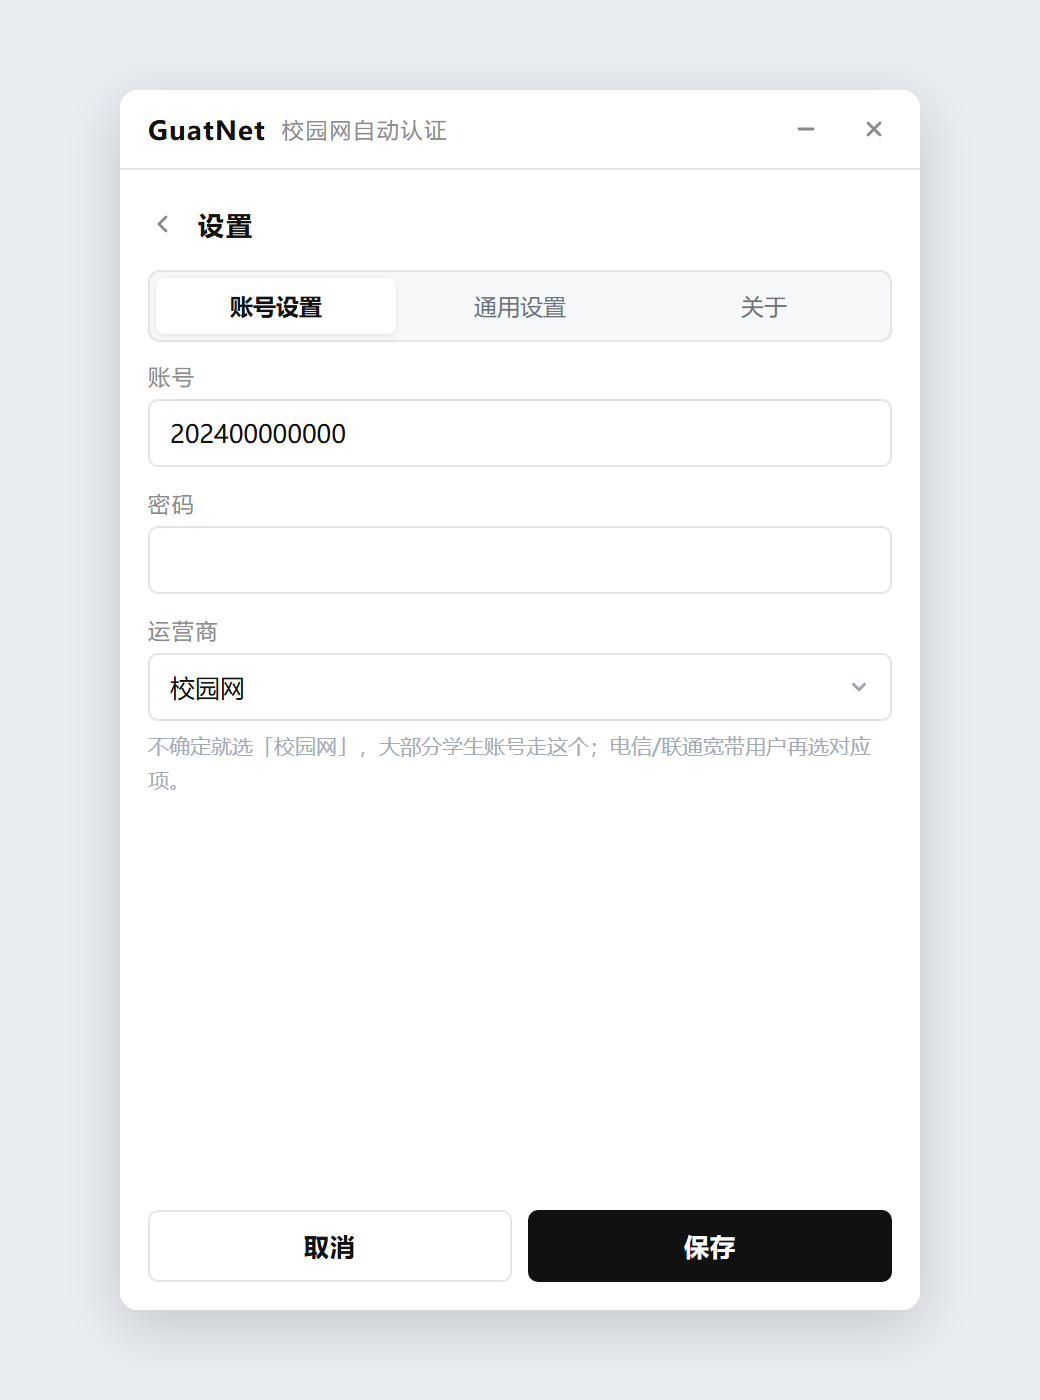
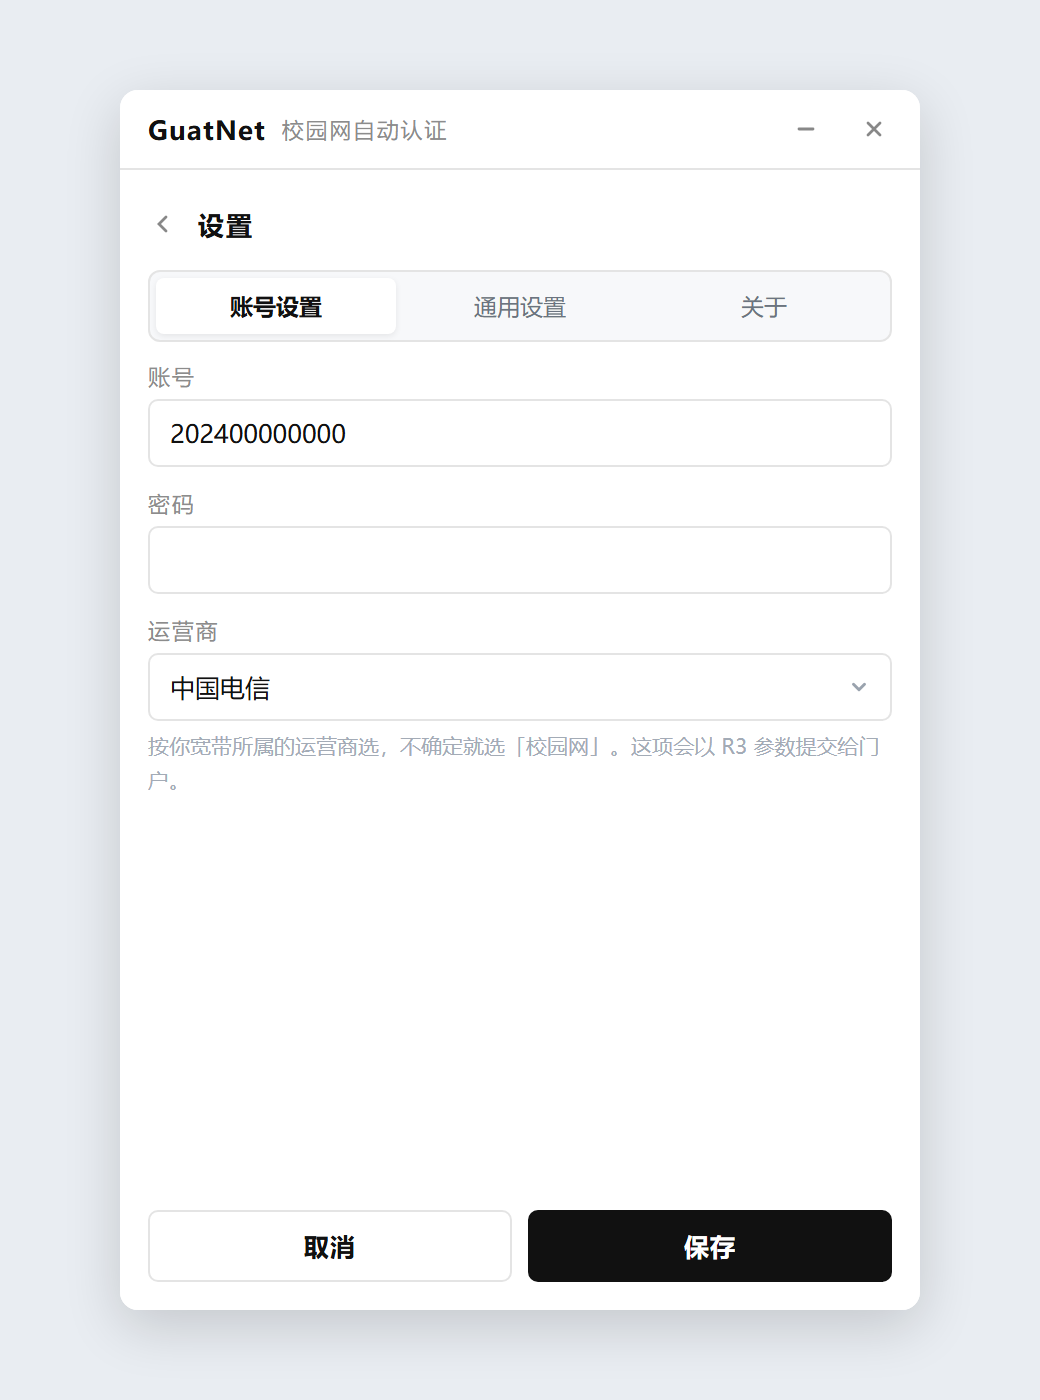
fix: 认证改用经典 drcom 接口，运营商以 R3 提交；重连真正生效
- 抓包确认学校登录页走 /drcom/login，运营商是 R3 参数（0 校园网 1 电信 2 联通 3 移动 4 广电）
- 参数顺序固定为 DDDDD、upass 在 0MKKey 之前，否则服务端返回 203
- 恢复运营商下拉，标签与门户一致（中国电信等）
- 点「立即重连」时即使已在线也重新认证，不再直接跳过

Changed region(s): [[0.1231, 0.4607, 0.8308, 0.5529]]

diff --git a/ui/index.html b/ui/index.html
@@ -120,6 +120,10 @@
   .field input:focus{border-color:var(--blue);box-shadow:0 0 0 3px rgba(47,111,237,.12)}
 
   /* 自定义下拉 */
+  .readonly{
+    height:34px;display:flex;align-items:center;padding:0 10px;border-radius:5px;
+    border:1px solid var(--line);background:var(--soft);color:#6B7480;font-size:12.5px;
+  }
   .sel{position:relative}
   .selbtn{
     width:100%;height:34px;display:flex;align-items:center;gap:8px;
@@ -302,7 +306,7 @@
           </button>
           <div class="selmenu" id="selIspMenu" hidden></div>
         </div>
-        <div class="hint">不确定就选「校园网」，大部分学生账号走这个；电信/联通宽带用户再选对应项。</div>
+        <div class="hint">按你宽带所属的运营商选，不确定就选「校园网」。这项会以 R3 参数提交给门户。</div>
       </div>
     </div>
 
@@ -331,7 +335,7 @@
         </span>
         <div>
           <div class="nm">GuatNet</div>
-          <div class="ver">版本 1.0.2 · 校园网自动认证</div>
+          <div class="ver">版本 1.0.3 · 校园网自动认证</div>
         </div>
       </div>
 
@@ -439,7 +443,7 @@ $('btnSet').onclick = () => openSheet();
 $('btnBack').onclick = $('btnCancel').onclick = () => closeSheet();
 
 /* ---------- 运营商下拉 ---------- */
-const ISP_NAMES = ['校园网', '校园电信', '校园联通', '校园其他'];
+const ISP_NAMES = ['校园网', '中国电信', '中国联通', '中国移动', '中国广电'];
 let currentIsp = 0;
 
 (function buildIsp(){
@@ -459,26 +463,12 @@ function setIsp(v){
   $('selIspText').textContent = ISP_NAMES[currentIsp] || ISP_NAMES[0];
   [...$('selIspMenu').children].forEach(b => b.classList.toggle('on', Number(b.dataset.v) === currentIsp));
 }
+function openIsp(){ $('selIsp').classList.add('open'); $('selIspMenu').hidden = false; }
+function closeIsp(){ $('selIsp').classList.remove('open'); $('selIspMenu').hidden = true; }
 
-function openIsp(){
-  $('selIsp').classList.add('open');
-  $('selIspMenu').hidden = false;
-}
-function closeIsp(){
-  $('selIsp').classList.remove('open');
-  $('selIspMenu').hidden = true;
-}
-
-$('selIspBtn').onclick = e => {
-  e.stopPropagation();
-  $('selIspMenu').hidden ? openIsp() : closeIsp();
-};
-document.addEventListener('click', e => {
-  if (!e.target.closest('#selIsp')) closeIsp();
-});
-document.addEventListener('keydown', e => {
-  if (e.key === 'Escape') closeIsp();
-});
+$('selIspBtn').onclick = e => { e.stopPropagation(); $('selIspMenu').hidden ? openIsp() : closeIsp(); };
+document.addEventListener('click', e => { if (!e.target.closest('#selIsp')) closeIsp(); });
+document.addEventListener('keydown', e => { if (e.key === 'Escape') closeIsp(); });
 
 /* ---------- 设置分类 ---------- */
 function switchTab(name){
@@ -517,11 +507,11 @@ function openSheet(){
   const s = JSON.parse(_lastState || '{}');
   $('fAccount').value = s.account || '';
   $('fGateway').value = s.gateway || '';
-  setIsp(s.isp ?? 0);
   setAutoStart(s.autoStart);
   switchTab('account');
   $('fPassword').value = '';
   $('fPassword').placeholder = s.hasPassword ? '已保存，留空则不修改' : '请输入密码';
+  setIsp(s.isp ?? 0);
   $('msg').textContent = '';
   $('sheet').classList.add('open');
   sheetOpen = true;
@@ -535,9 +525,9 @@ $('btnSave').onclick = async () => {
   const payload = {
     account: $('fAccount').value.trim(),
     password: $('fPassword').value,
-    isp: currentIsp,
     autoStart: autoStartOn,
-    gateway: $('fGateway').value.trim()
+    gateway: $('fGateway').value.trim(),
+    isp: currentIsp
   };
   try {
     const err = await app.save(JSON.stringify(payload));

diff --git a/auth.go b/auth.go
@@ -3,7 +3,6 @@ package main
 import (
 	"fmt"
 	"io"
-	"net"
 	"net/http"
 	"regexp"
 	"strings"
@@ -28,67 +27,36 @@ func newDrcomClient(cfg Config) *DrcomClient {
 	}
 }
 
-// ispSuffix 对应门户里运营商下拉的账号后缀（页面内 carrier 配置）。
-func ispSuffix(isp int) string {
-	switch isp {
-	case 1:
-		return "@dx" // 校园电信
-	case 2:
-		return "@lt" // 校园联通
-	default:
-		return "" // 校园用户 / 其他
-	}
-}
-
-// clientIP 取门户眼中的本机 IP。
+// buildURL 拼登录地址（经典 Dr.COM 接口，和学校登录页用的完全一致）。
 //
-// 只认门户首页内联的 v4ip='x.x.x.x'——那才是校园网给这个会话分配的地址。
-// 绝不退回到本机网卡地址：外网卡（比如家里的路由器）会被门户当成另一个会话，
-// 结果是认证"成功"了却上不了网，还会把已经在线的那条会话顶掉。
-func (c *DrcomClient) clientIP() string {
-	for i := 0; i < 3; i++ {
-		if ip := c.fetchV4IP(); ip != "" {
-			return ip
-		}
-		time.Sleep(300 * time.Millisecond)
-	}
-	return ""
-}
-
-func (c *DrcomClient) fetchV4IP() string {
-	resp, err := c.http.Get(fmt.Sprintf("http://%s/?_=%d", c.cfg.Gateway, time.Now().UnixNano()))
-	if err != nil {
-		return ""
-	}
-	defer resp.Body.Close()
-
-	body, err := io.ReadAll(io.LimitReader(resp.Body, 64<<10))
-	if err != nil {
-		return ""
-	}
-	if m := reV4IP.FindSubmatch(body); len(m) == 2 {
-		ip := strings.TrimSpace(string(m[1]))
-		if net.ParseIP(ip) != nil {
-			return ip
-		}
-	}
-	return ""
-}
-
-var reV4IP = regexp.MustCompile(`v4ip\s*=\s*'([0-9]{1,3}(?:\.[0-9]{1,3}){3})'`)
-
-// buildURL 拼登录地址。返回值含明文密码，只能用于发请求，不能进日志。
-func (c *DrcomClient) buildURL(ip string) string {
+// 运营商走 R3：0 校园网 / 1 中国电信 / 2 中国联通 / 3 中国移动 / 4 中国广电。
+// 参数顺序有讲究：DDDDD、upass 必须在 0MKKey 之前，否则服务端返回 203。
+//
+// 返回值含明文密码，只能用于发请求，绝不能进日志。
+func (c *DrcomClient) buildURL() string {
 	return fmt.Sprintf(
-		"http://%s:%d/eportal/portal/login?callback=dr1003&login_method=0"+
-			"&user_account=%s&user_password=%s&wlan_user_ip=%s&wlan_user_ipv6="+
-			"&wlan_user_mac=000000000000&wlan_ac_ip=&wlan_ac_name="+
-			"&jsVersion=4.X&terminal_type=1&lang=zh-cn",
-		c.cfg.Gateway, c.cfg.PortalPort,
-		urlQueryEscape(c.cfg.Account+ispSuffix(c.cfg.ISP)),
+		"http://%s/drcom/login?callback=dr1003&DDDDD=%s&upass=%s"+
+			"&0MKKey=123456&R1=0&R2=&R3=%d&R6=0&para=00&v6ip="+
+			"&terminal_type=1&lang=zh-cn&jsVersion=4.2.1&v=%d&lang=zh",
+		c.cfg.Gateway,
+		urlQueryEscape(c.cfg.Account),
 		urlQueryEscape(c.cfg.Password),
-		urlQueryEscape(ip),
+		c.cfg.ISP,
+		time.Now().Unix()%100000,
 	)
+}
+
+// maskedURL 只用于日志：把密码换成 ***。
+func (c *DrcomClient) maskedURL() string {
+	u := c.buildURL()
+	if i := strings.Index(u, "upass="); i >= 0 {
+		j := strings.Index(u[i:], "&")
+		if j < 0 {
+			return u[:i] + "upass=***"
+		}
+		return u[:i] + "upass=***" + u[i+j:]
+	}
+	return u
 }
 
 func urlQueryEscape(s string) string {
@@ -97,19 +65,6 @@ func urlQueryEscape(s string) string {
 		"%", "%25", "/", "%2F", ":", "%3A", "@", "%40", "\"", "%22", "'", "%27",
 	)
 	return r.Replace(s)
-}
-
-// maskedURL 只用于日志：把密码换成 ***。
-func (c *DrcomClient) maskedURL(ip string) string {
-	u := c.buildURL(ip)
-	if i := strings.Index(u, "user_password="); i >= 0 {
-		j := strings.Index(u[i:], "&")
-		if j < 0 {
-			return u[:i] + "user_password=***"
-		}
-		return u[:i] + "user_password=***" + u[i+j:]
-	}
-	return u
 }
 
 type loginResult struct {
@@ -123,9 +78,9 @@ var (
 	reMSG    = regexp.MustCompile(`"msg"\s*:\s*"([^"]*)"`)
 )
 
-// Login 用给定的客户端 IP 发一次认证请求。
-func (c *DrcomClient) Login(ip string) (loginResult, error) {
-	resp, err := c.http.Get(c.buildURL(ip))
+// Login 发一次认证请求。
+func (c *DrcomClient) Login() (loginResult, error) {
+	resp, err := c.http.Get(c.buildURL())
 	if err != nil {
 		return loginResult{}, err
 	}

diff --git a/main.go b/main.go
@@ -130,7 +130,7 @@ func (a *App) daemon() {
 			fails = 0
 			a.st.setStatus(StatusOffline)
 			a.st.setError(pr.detail)
-			a.tryLogin(client, probe, cfg, pr.ip)
+			a.tryLogin(client, probe, cfg)
 			wasOnline = probe.online()
 			if wasOnline {
 				a.st.setStatus(StatusOnline)
@@ -154,11 +154,18 @@ func (a *App) daemon() {
 			cur := probe.check()
 			switch cur.state {
 			case campusLoggedIn:
-				a.log.Info("当前已认证，无需重复登录")
-				a.st.setStatus(StatusOnline)
-				a.st.setError("")
+				// 用户主动点了重连，就真的重来一次（会替换掉现有会话）
+				a.log.Info("按要求重新认证（当前已在线，旧会话会被替换）")
+				a.tryLogin(client, probe, cfg)
+				wasOnline = probe.online()
+				if wasOnline {
+					a.st.setStatus(StatusOnline)
+					a.st.setError("")
+				} else {
+					a.st.setStatus(StatusOffline)
+				}
 			case campusLoggedOut:
-				a.tryLogin(client, probe, cfg, cur.ip)
+				a.tryLogin(client, probe, cfg)
 				wasOnline = probe.online()
 				if wasOnline {
 					a.st.setStatus(StatusOnline)
@@ -175,8 +182,17 @@ func (a *App) daemon() {
 	}
 }
 
+// operatorName 把 R3 编号翻成给人看的名字。
+func operatorName(isp int) string {
+	names := []string{"校园网", "中国电信", "中国联通", "中国移动", "中国广电"}
+	if isp >= 0 && isp < len(names) {
+		return names[isp]
+	}
+	return "校园网"
+}
+
 // tryLogin 在冷却期外才真正提交认证，避免把门户惹毛。
-func (a *App) tryLogin(client *DrcomClient, probe *prober, cfg Config, ip string) {
+func (a *App) tryLogin(client *DrcomClient, probe *prober, cfg Config) {
 	if wait := minLoginGap - time.Since(a.lastLogin); wait > 0 {
 		// 只在冷却刚开始时记一条，避免每 20 秒刷一遍
 		if wait > minLoginGap-5*time.Second {
@@ -186,29 +202,19 @@ func (a *App) tryLogin(client *DrcomClient, probe *prober, cfg Config, ip string
 		return
 	}
 	a.lastLogin = time.Now()
-	a.login(client, probe, cfg, ip)
+	a.login(client, probe, cfg)
 }
 
 // login 带退避地认证，成功后复探确认。
-func (a *App) login(client *DrcomClient, probe *prober, cfg Config, ip string) {
+func (a *App) login(client *DrcomClient, probe *prober, cfg Config) {
 	backoff := 5 * time.Second
 
-	if ip == "" {
-		ip = client.clientIP()
-	}
-	if ip == "" {
-		// 绝不能拿本机网卡地址凑数：门户会把它当成另一个会话，
-		// 结果是"认证成功"却上不了网，还会把在线的会话顶掉。
-		a.log.Error("取不到门户分配的本机 IP，本次不提交认证")
-		a.st.setError("取不到校园网分配的 IP")
-		return
-	}
-	a.log.Info("开始认证（%s）：%s", ip, client.maskedURL(ip))
+	a.log.Info("开始认证（%s）：%s", operatorName(cfg.ISP), client.maskedURL())
 
 	for i := 1; i <= maxLoginTry; i++ {
 		a.st.setStatus(StatusAuthing)
 
-		res, err := client.Login(ip)
+		res, err := client.Login()
 		switch {
 		case err != nil:
 			a.log.Error("第 %d 次认证请求失败：%v", i, err)

diff --git a/README.md b/README.md
@@ -74,7 +74,7 @@ http://10.1.2.3:801/eportal/?c=Portal&a=login&...
 |---|---|---|
 | `account` | 学号 / 账号 | 空 |
 | `password` | 密码（只存本机） | 空 |
-| `isp` | 0 校园网 · 1 校园电信 · 2 校园联通 · 3 校园其他 | `0` |
+| `isp` | 运营商：0 校园网 · 1 中国电信 · 2 中国联通 · 3 中国移动 · 4 中国广电（以 `R3` 参数提交） | `0` |
 | `gateway` | 认证门户 IP | `10.1.2.3` |
 | `portalPort` | 认证接口端口 | `801` |
 | `probeIntervalSec` | 多久问一次门户状态（秒） | `20` |
